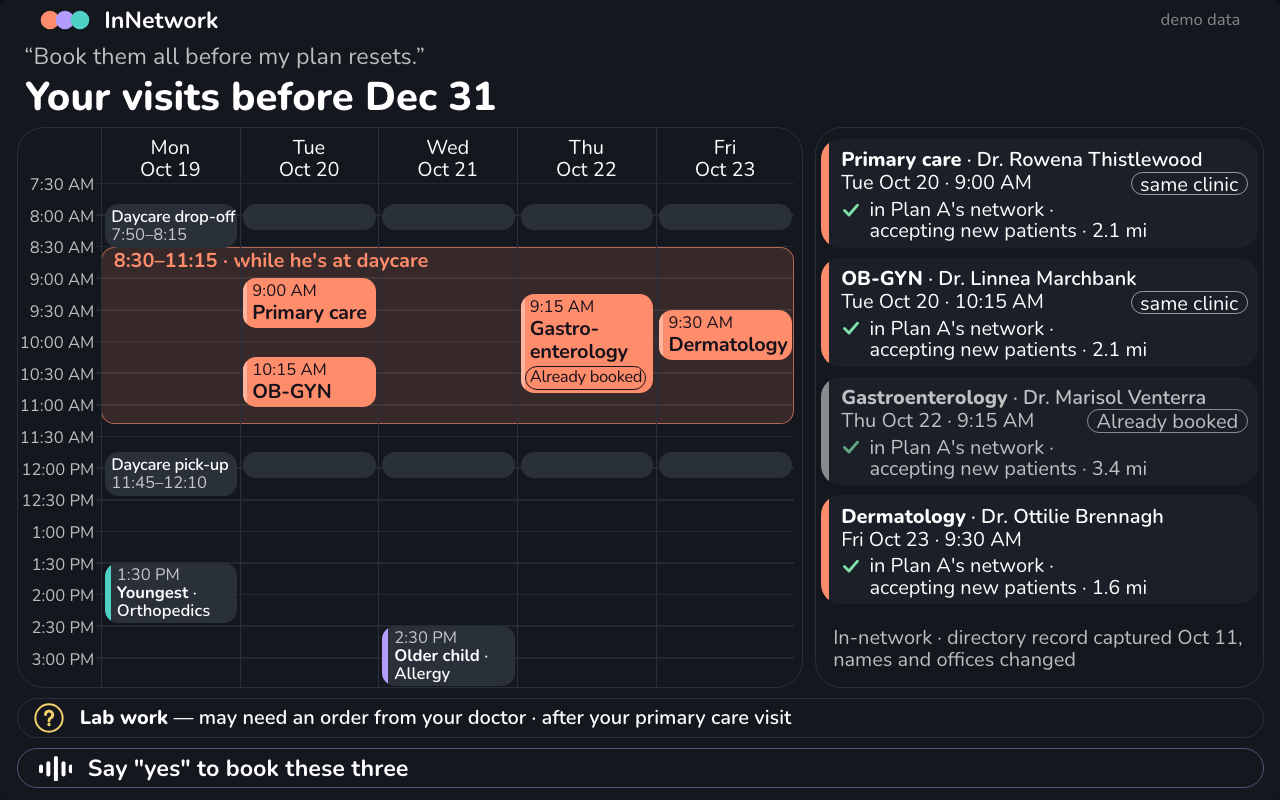
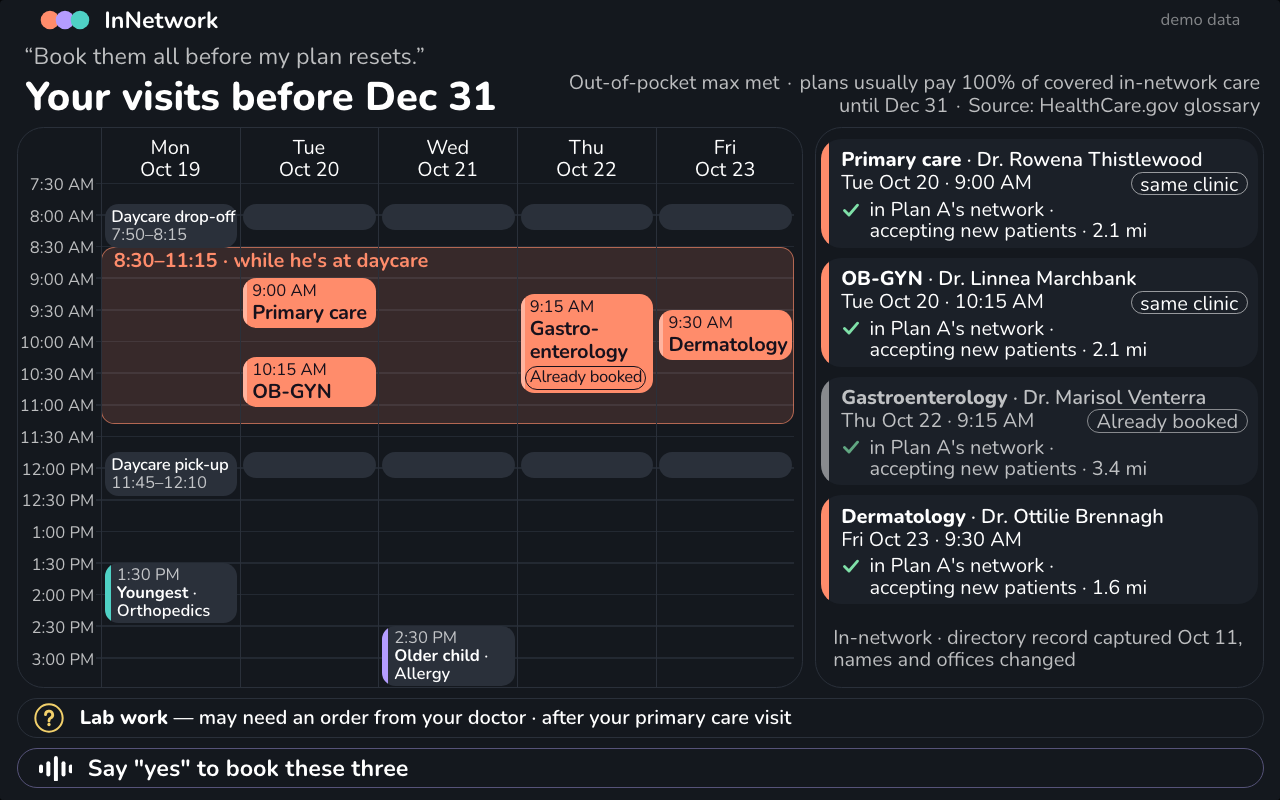
Scene 1 voice: the read-back is 24 words (longest Alexa reply 11.8 s, was 17.2 s plus an 8.4 s coverage line in the same turn); the out-of-pocket line moves to the visit-plan screen in the N9 wording, hours and the lab note stay on the screen; verify T8/T9/B8 follow; screens re-shot (68/68); frictio

Changed region(s): [[0.4375, 0.0938, 0.9688, 0.1562]]

diff --git a/verify/protocol.ts b/verify/protocol.ts
@@ -23,13 +23,13 @@ const MODES = new Set(["live", "file", "fixture", "sandbox", "simulated"]);
 export const SPEC_LINES = {
   openingReadBack: "One doctor each, in their own plan. Book all three?",
   openingBooked: "Booked.",
-  oop: "After the out-of-pocket max, plans usually pay 100% of covered in-network care until the plan year ends — per HealthCare.gov.",
-  plan: "Your gastroenterologist is already booked for Thursday. Tuesday, same clinic: primary care, then OB-GYN. Friday: dermatology. All between 8:30 and 11, while he's at daycare. Lab work may need an order — I'll add it after primary care. Book these three?",
+  oopNote: "Out-of-pocket max met · plans usually pay 100% of covered in-network care until Dec 31 · Source: HealthCare.gov glossary",
+  plan: "Your gastroenterologist is already booked for Thursday. Tuesday, same clinic: primary care, then OB-GYN. Friday: dermatology. All while he's at daycare. Book these three?",
   booked: "Booked. Details in your Alexa app and email. Say cancel anytime.",
   status: "Four booked. Lab work comes after Tuesday's visit.",
   setAside: "I checked six nearby. Two don't see children under three, one isn't in his plan. These two fit.",
 };
-export const VIDEO_ALEXA_LINES = [SPEC_LINES.openingReadBack, SPEC_LINES.openingBooked, SPEC_LINES.oop, SPEC_LINES.plan, SPEC_LINES.booked, SPEC_LINES.status, SPEC_LINES.setAside];
+export const VIDEO_ALEXA_LINES = [SPEC_LINES.openingReadBack, SPEC_LINES.openingBooked, SPEC_LINES.plan, SPEC_LINES.booked, SPEC_LINES.status, SPEC_LINES.setAside];
 export const TOOLS = ["book_visit", "cancel_visit", "check_doctor", "checkup_year", "consent", "doctor_notes", "family_plans", "family_routine", "find_in_network"];
 export const VIEW_OF: Record<string, string | null> = { consent: "consent", find_in_network: "family-match", book_visit: "booked", cancel_visit: "booked", checkup_year: "visit-plan", family_plans: null, family_routine: null, doctor_notes: null, check_doctor: null };
 /** Tool names, JSON and internal ids must never reach a customer card. */
@@ -171,8 +171,8 @@ export async function runProtocolChecks(opts: { mcpUrl: string; dataDir: string;
   add("T7", "opening booked (voice) + written confirmation queued (§15)", SPEC_LINES.openingBooked, `${ob.speech} | ${ob.steps.filter((s) => /Written confirmation/.test(s.service)).map((s) => s.summary).join("")}`, ob.speech === SPEC_LINES.openingBooked && ob.steps.some((s) => /Written confirmation/.test(s.service)));
 
   const plan = await call(cA, "checkup_year", CHECKUP);
-  add("T8", "scene 1: OOP line with 'usually' and HealthCare.gov (N9)", SPEC_LINES.oop, plan.parts[0] ?? "", plan.parts[0] === SPEC_LINES.oop);
-  add("T9", "scene 1: plan read back around the routine; lab work waits (N10, N12)", SPEC_LINES.plan, plan.parts[1] ?? "", plan.parts[1] === SPEC_LINES.plan);
+  add("T8", "scene 1: OOP line on the screen with 'usually' and HealthCare.gov (N9), not spoken", SPEC_LINES.oopNote, `${plan.sc.card?.note} | parts ${plan.parts.length}`, plan.sc.card?.note === SPEC_LINES.oopNote && plan.parts.length === 1);
+  add("T9", "scene 1: plan read back around the routine; lab work waits on the screen (N10, N12)", SPEC_LINES.plan, `${plan.parts[0] ?? ""} | ${plan.sc.card?.lab}`, plan.parts[0] === SPEC_LINES.plan && /^Lab work — may need an order/.test(String(plan.sc.card?.lab ?? "")));
   const docs = (plan.sc.card?.doctors ?? []).map((d: any) => `${d.specialty}|${d.name}|${d.when}|${d.tag ?? ""}`);
   add("T10", "visit plan screen: four doctors, same clinic, already booked", "PC Tue 9:00 · OB Tue 10:15 · GI Thu 9:15 (Already booked) · Derm Fri 9:30", docs.join(" ; "),
     docs.join(";") === ["Primary care|Dr. Rowena Thistlewood|Tue Oct 20 · 9:00 AM|same clinic", "OB-GYN|Dr. Linnea Marchbank|Tue Oct 20 · 10:15 AM|same clinic", "Gastroenterology|Dr. Marisol Venterra|Thu Oct 22 · 9:15 AM|Already booked", "Dermatology|Dr. Ottilie Brennagh|Fri Oct 23 · 9:30 AM|"].join(";"));

diff --git a/server/speech.ts b/server/speech.ts
@@ -2,7 +2,7 @@
 // the 20-second budget) before it leaves the server.
 import { assertSpeech, DISCLAIMER } from "../src/core/lint.ts";
 import { SPECIALTY_WORDS, itemVisit } from "../src/core/specialty.ts";
-import { clock12, toZoned, weekdayLong, minutesOfDay, timeAmPm } from "../src/core/time.ts";
+import { toZoned, weekdayLong, timeAmPm } from "../src/core/time.ts";
 import type { CheckupItem, Specialty } from "../src/core/types.ts";
 import type { Pronoun } from "../src/core/network-gate.ts";
 
@@ -46,19 +46,20 @@ export function searchSummary(args: { checked: number; ageSetAside: { count: num
   return assertSpeech(parts.join(" "));
 }
 
-export const OOP_LINE = assertSpeech("After the out-of-pocket max, plans usually pay 100% of covered in-network care until the plan year ends — per HealthCare.gov.");
+/** The out-of-pocket line is shown on the visit-plan screen, not spoken: it kept the scene-1 turn over 25 s. Same N9 wording as the checkup-year subtitle. */
+export const oopNote = (until: string) => `Out-of-pocket max met · plans usually pay 100% of covered in-network care until ${until} · Source: HealthCare.gov glossary`;
 
 export type PlanSpeechInput = {
   tz: string;
   bookedEarlier: { item: CheckupItem; start: number }[];
   proposals: { item: Specialty; start: number; end: number; officeId: string }[];
-  windowStartMin: number | null; // child-away gap start, when every proposal sits in it
+  allInWindow: boolean;          // every proposal sits in the child-away gap
   childPronoun: Pronoun | null;
   routineLabel: string | null;   // "daycare"
-  labWaits: boolean;
 };
 
-/** Scene 1 read-back: built from the plan, grouped by day, same clinic named. */
+/** Scene 1 read-back: built from the plan, grouped by day, same clinic named. Hours and the lab-work note are on the
+ *  screen (window band, lab row), so the voice keeps only days, the routine and the question (about 10 s). */
 export function checkupReadBack(p: PlanSpeechInput): string {
   const s: string[] = [];
   for (const b of p.bookedEarlier) {
@@ -75,12 +76,7 @@ export function checkupReadBack(p: PlanSpeechInput): string {
     const list = xs.map((x) => itemVisit(x.item));
     s.push(`${day}${same ? ", same clinic" : ""}: ${list.length > 1 ? `${list.slice(0, -1).join(", ")}, then ${list.at(-1)}` : list[0]}.`);
   }
-  if (p.proposals.length && p.windowStartMin !== null && p.childPronoun && p.routineLabel) {
-    const lastEnd = Math.max(...p.proposals.map((x) => minutesOfDay(toZoned(x.end, p.tz))));
-    const endHour = Math.ceil(lastEnd / 60) * 60;
-    s.push(`All between ${clock12(p.windowStartMin)} and ${clock12(endHour)}, while ${contraction(p.childPronoun)} at ${p.routineLabel}.`);
-  }
-  if (p.labWaits) s.push("Lab work may need an order — I'll add it after primary care.");
+  if (p.proposals.length && p.allInWindow && p.childPronoun && p.routineLabel) s.push(`All while ${contraction(p.childPronoun)} at ${p.routineLabel}.`);
   if (p.proposals.length) s.push(p.proposals.length === 1 ? "Book this one?" : p.proposals.length === 2 ? "Book these two?" : `Book these ${numberWord(p.proposals.length)}?`);
   else s.push("Nothing new to book right now.");
   return assertSpeech(s.join(" "));

diff --git a/verify/browser.ts b/verify/browser.ts
@@ -310,11 +310,13 @@ export async function runBrowserChecks(opts: { hostUrl: string; screensDir: stri
     add("B18", "conversation band per screen: framed request + reply (01, 02), open request + two short lines (05), quote of the request's last sentence (03), none (04, 06)", "7/7 as specified",
       bandMiss.length ? bandMiss.join(" | ") : `${EXPECT_BAND.length}/${EXPECT_BAND.length}`, bandMiss.length === 0);
     const planTurn = demoTurns.find((t) => t.tool === "checkup_year" && t.view === "visit-plan");
-    const p1 = subtitleLog.findIndex((x) => x.text === planTurn?.parts?.[0]);
-    const p2 = subtitleLog.findIndex((x) => x.text === planTurn?.parts?.[1]);
-    add("B8", "speech parts of scene 1 shown one after the other in the subtitle bar, each with its own seconds", "part 1 then part 2, seconds from structuredContent.seconds",
-      `parts=${planTurn?.parts?.length} order=${p1}<${p2} seconds="${subtitleLog[p1]?.seconds}","${subtitleLog[p2]?.seconds}" vs ${JSON.stringify(planTurn?.seconds)}`,
-      planTurn?.parts?.length === 2 && p1 >= 0 && p2 > p1 && subtitleLog[p1]?.seconds === `${Number(planTurn.seconds[0]).toFixed(1)} s` && subtitleLog[p2]?.seconds === `${Number(planTurn.seconds[1]).toFixed(1)} s`);
+    // Scene 1 is one part since 2026-10-17 (the out-of-pocket line moved to the screen); the check still walks every part.
+    const planParts: string[] = planTurn?.parts ?? [];
+    const idx = planParts.map((t) => subtitleLog.findIndex((x) => x.text === t));
+    const secOk = planParts.every((_, i) => idx[i] >= 0 && subtitleLog[idx[i]]?.seconds === `${Number(planTurn!.seconds[i]).toFixed(1)} s`);
+    add("B8", "speech parts of scene 1 shown one after the other in the subtitle bar, each with its own seconds", "every part in order, seconds from structuredContent.seconds",
+      `parts=${planParts.length} order=${idx.join("<")} seconds=${idx.map((j) => `"${subtitleLog[j]?.seconds}"`).join(",")} vs ${JSON.stringify(planTurn?.seconds)}`,
+      planParts.length >= 1 && idx.every((j, i) => j >= 0 && (i === 0 || j > idx[i - 1])) && secOk);
 
     add("B9", "MCP Apps lifecycle: every card view initialized before data; ui/resource-teardown before each view change", "initialized = renders; teardowns = renders - 1 (per household) or more",
       `renders=${hEnd.card.renders} initialized=${hEnd.card.initialized} teardowns=${hEnd.card.teardowns}`, hEnd.card.renders > 0 && hEnd.card.initialized === hEnd.card.renders && hEnd.card.teardowns >= hEnd.card.renders - 1);

diff --git a/server/tools.ts b/server/tools.ts
@@ -584,8 +584,7 @@ export function buildMcpServer({ era, services: sv, assetBase = "" }: BuildOptio
     const allInWindow = proposals.length > 0 && proposals.every((p) => { const m = minutesOfDay(toZoned(p.start, tz)); return win && m >= win.startMin && m + (p.end - p.start) / 60000 <= win.endMin; });
     const who = childPronounOfRoutine(u);
     const parts = [
-      ...(oop_met ? [S.OOP_LINE] : []),
-      S.checkupReadBack({ tz, bookedEarlier: earlierLines.map((l) => ({ item: l.item, start: l.visit.start })), proposals: proposals.map((p) => ({ item: p.item as Specialty, start: p.start, end: p.end, officeId: p.officeId })), windowStartMin: allInWindow ? win!.startMin : null, childPronoun: who?.pronoun ?? null, routineLabel: who?.word ?? null, labWaits }),
+      S.checkupReadBack({ tz, bookedEarlier: earlierLines.map((l) => ({ item: l.item, start: l.visit.start })), proposals: proposals.map((p) => ({ item: p.item as Specialty, start: p.start, end: p.end, officeId: p.officeId })), allInWindow, childPronoun: who?.pronoun ?? null, routineLabel: who?.word ?? null }),
     ];
     const others = activeVisits(u, now).filter((v) => v.memberId !== adult.memberId);
     const weekVisits = [
@@ -601,6 +600,7 @@ export function buildMcpServer({ era, services: sv, assetBase = "" }: BuildOptio
     ].sort((a, b) => a.start - b.start).map((x) => x.row);
     const card: C.VisitPlanCard = {
       view: "visit-plan", quote: null, title: `Your visits before ${shortDate(u.checkup?.planYearEnd ?? sv.scenario.planYearEnd)}`,
+      note: u.checkup?.oopMetToldAt ? S.oopNote(shortDate(u.checkup.planYearEnd)) : null,
       week: C.weekModel({ weekStart: C.mondayOf(firstStart, tz), tz, routine: u.routine, window: win, visits: weekVisits }),
       doctors: docRows,
       sourceLine: sourceLineOf([...lookups.values()].flatMap((l) => [...l.records.values()])),

diff --git a/server/server.test.ts b/server/server.test.ts
@@ -82,11 +82,11 @@ test("demo story: opening for three people -> book -> checkup plan -> book -> ne
   // Scene 1: checkup year
   const plan = await s.call("checkup_year", { action: "plan", items: ["primary_care", "ob_gyn", "dermatology", "gastroenterology", "lab_work"], oop_met: true });
   assert.deepEqual(plan.structuredContent.speechParts, [
-    "After the out-of-pocket max, plans usually pay 100% of covered in-network care until the plan year ends — per HealthCare.gov.",
-    "Your gastroenterologist is already booked for Thursday. Tuesday, same clinic: primary care, then OB-GYN. Friday: dermatology. All between 8:30 and 11, while he's at daycare. Lab work may need an order — I'll add it after primary care. Book these three?",
+    "Your gastroenterologist is already booked for Thursday. Tuesday, same clinic: primary care, then OB-GYN. Friday: dermatology. All while he's at daycare. Book these three?",
   ]);
   const card = plan.structuredContent.card;
   assert.equal(card.title, "Your visits before Dec 31");
+  assert.equal(card.note, "Out-of-pocket max met · plans usually pay 100% of covered in-network care until Dec 31 · Source: HealthCare.gov glossary", "the out-of-pocket line moved from the voice to the screen (N9 wording kept)");
   assert.deepEqual(card.doctors.map((d: any) => [d.specialty, d.name, d.when, d.tag]), [
     ["Primary care", "Dr. Rowena Thistlewood", "Tue Oct 20 · 9:00 AM", "same clinic"],
     ["OB-GYN", "Dr. Linnea Marchbank", "Tue Oct 20 · 10:15 AM", "same clinic"],

diff --git a/views/screens.css b/views/screens.css
@@ -212,6 +212,8 @@ body {
   display: flex; flex-direction: column;
 }
 .s-vp .title { flex: none; margin: 1.5px 0 0 15px; height: 28px; font-size: var(--display5); font-weight: 800; line-height: 28px; color: var(--text-1); white-space: nowrap; }
+.s-vp .title-row { flex: none; display: flex; align-items: flex-start; justify-content: space-between; gap: 12px; }
+.s-vp .note { margin: 0 12px 0 0; max-width: 440px; font-size: var(--body3); line-height: 14px; color: var(--text-2); text-align: right; }
 .s-vp .main { flex: none; margin: 3.9px 10px 0; height: 337px; display: grid; grid-template-columns: 472px 269px; column-gap: 7px; }
 .s-vp .cal { position: relative; background: var(--card); border: 1px solid var(--hairline); border-radius: var(--r-card); }
 .s-vp .cal-cols { position: absolute; left: var(--axis); top: 0; bottom: 0; display: grid; grid-template-columns: repeat(5, var(--col)); }

diff --git a/src/core/core.test.ts b/src/core/core.test.ts
@@ -153,7 +153,7 @@ test("N1-symptom-refusal: a symptom without a specialty gets the fixed answer; a
 });
 
 test("voice budget: one reply at most 20 seconds", () => {
-  assert.ok(seconds("Your gastroenterologist is already booked for Thursday. Tuesday, same clinic: primary care, then OB-GYN. Friday: dermatology. All between 8:30 and 11, while he's at daycare. Lab work may need an order — I'll add it after primary care. Book these three?") <= 20);
+  assert.ok(seconds("Your gastroenterologist is already booked for Thursday. Tuesday, same clinic: primary care, then OB-GYN. Friday: dermatology. All while he's at daycare. Book these three?") <= 12);
   assert.equal(lintSpeech("word ".repeat(51))[0].rule, "budget");
 });
 

diff --git a/views/screens.ts b/views/screens.ts
@@ -285,7 +285,7 @@ function visitPlan(c: VisitPlanCard): Node[] {
   }
   if (c.sourceLine) docs.append(el("p", "src", c.sourceLine));
 
-  const out: Node[] = [el("h1", "title", c.title), el("main", "main", cal, docs)];
+  const out: Node[] = [c.note ? el("div", "title-row", el("h1", "title", c.title), el("p", "note", ...dotted(c.note, true))) : el("h1", "title", c.title), el("main", "main", cal, docs)];
   if (c.lab) {
     const [a, b] = splitOnce(c.lab, " — ");
     const lab = el("div", "lab", ICON.vpLab(), el("p", null, el("b", null, a), b ? ` — ${b}` : null));

diff --git a/server/cards.ts b/server/cards.ts
@@ -80,6 +80,7 @@ export type SetAsideCard = {
 // ---------- 03 visit plan ----------
 export type VisitPlanCard = {
   view: "visit-plan"; quote: string | null; title: string; week: WeekModel;
+  note: string | null; // out-of-pocket line (N9 wording), shown next to the title instead of spoken
   doctors: { specialty: string; name: string; when: string; detail: string; tag: string | null; quiet: boolean }[];
   sourceLine: string | null;
   lab: string | null;

diff --git a/docs/FRICTION-LOG.md b/docs/FRICTION-LOG.md
@@ -1,8 +1,89 @@
 # Friction log — InNetwork (Alexa+ track)
 
-Part 1 (F1–F15): public provider directories, NPPES, CMS files — measured with `npm run audit:directories`. Part 2 (A1–A6): the Alexa+ platform, MCP Apps and the add-on design guide. Every entry has the six fields (task · steps · expected vs actual · severity · workaround · suggestion).
+Part 1 (A1–A6): the Alexa+ platform, MCP Apps and the add-on design guide. Part 2 (F1–F15): public provider directories, NPPES and CMS files — measured with `npm run audit:directories`. Every entry has the six fields the hackathon asks for: task · steps · expected vs actual · severity · workaround · suggestion. Feature requests that follow from these entries are in `docs/FEATURE-REQUESTS.md`.
 
-## Part 1 — directories, NPPES, CMS files
+## At a glance
+
+| # | Entry | Severity |
+|---|---|---|
+| A1 | No way to run the add-on on Alexa+ outside the partner preview | High |
+| A2 | `hostContext.theme` has no documented values; no host color or type tokens | Medium |
+| A3 | The guide does not say who draws List / Card / Carousel | Medium |
+| A4 | No health-care path in Alexa+ booking | Medium |
+| A5 | Policy for a parent-directed health navigator is unclear | Medium |
+| A6 | Design-guide minimum text sizes vs dense layouts | Low |
+| F1 | Florida Blue: no CapabilityStatement; supported search parameters only visible through an error message | Medium |
+| F2 | Florida Blue: an unknown search parameter answers HTTP 200 + OperationOutcome | Medium |
+| F3 | Florida Blue: InsurancePlan.network points to a network no practitioner role references (5 of 14 plans) | High |
+| F4 | Florida Blue: specialty is free text with a NullFlavor code; sub-specialties are invisible | High |
+| F5 | Florida Blue: every role says "accepting new patients"; no hours, no geo, no practice name | Medium |
+| F6 | Molina: comma-separated ids return 0; one location per request; bursts get HTTP 403 | Medium |
+| F6b | Molina: an undocumented daily call-volume quota stops every request until 00:00 UTC | High (live use) |
+| F7 | Molina: Florida Medicaid MMA plan has an empty `network`; roles carry the program as network | Medium |
+| F8 | Molina: shapes that break a strict Plan-Net reader | Low–medium |
+| F9 | Marketplace (QHP) plans: no API; one provider file is up to 1.5 GB | Medium |
+| F10 | NPPES: a ZIP search also matches mailing addresses | Medium (organizations), low (individuals) |
+| F11 | Directories and indexes that need registration or refuse anonymous reads | Medium |
+| F12 | No public directory record states a patient age (Plan-Net has no field for it) | High (families with young children) |
+| F13 | Directory records that cannot answer the basic questions on their own | Medium |
+| F14 | In-network listings at Orlando addresses for practitioners who report practicing elsewhere | Medium–high |
+| F15 | Practice websites that refuse automated reads (the second measurement is thin) | Low for the build, medium for families |
+
+Not in this log: the classic Alexa skill (`skill/`) is built and tested against the server, but we have not yet run it on a device, so there is no on-device entry; we only log what we actually tried.
+
+## Part 1 — Alexa+ platform, MCP Apps, design guide
+
+### A1. No way to run the add-on on Alexa+ outside the partner preview
+- **Task:** show the MCP add-on working inside Alexa+.
+- **Steps:** read the add-on docs and the hackathon forum; looked for a public toolkit or web simulator.
+- **Expected vs actual:** expected a sandbox or simulator for builders; actual: "the Alexa+ Add-on toolkit and web simulator are in preview with select partners" (forum 45397).
+- **Severity:** High (for any Alexa+ track entry).
+- **Workaround:** our own host: official MCP client + MCP Apps bridge + a sandbox proxy on a second origin + a 1280×800 device frame (`host/`); a classic skill for one scene on a real Echo Show (`skill/`).
+- **Suggestion:** publish the add-on simulator (even read-only, without commerce) so demos are comparable and closer to the device.
+
+### A2. `hostContext.theme` has no documented values; no host color or type tokens
+- **Task:** support light and dark mode natively, as the design guide asks.
+- **Steps:** read Visual Foundations and Layout and Rendering (Jul 21, 2026) and the MCP Apps host context list.
+- **Expected vs actual:** expected the value set of `theme` (and ideally host tokens); actual: `theme` is listed without values, no tokens are passed.
+- **Severity:** Medium.
+- **Workaround:** accept `"dark" | "light"`, treat anything else as dark; all colors as CSS variables switched by `data-theme`; the simulator sends `host-context-changed` to test both.
+- **Suggestion:** document `theme` values and pass a minimal token set (surface, text, accent) in host context.
+
+### A3. The guide does not say who draws List / Card / Carousel
+- **Task:** decide whether our MCP App renders the list and card patterns or returns data for the host to render.
+- **Steps:** Components and Patterns (Aug 03, 2026), Display modes, Layout and Rendering.
+- **Expected vs actual:** expected a statement like "the host renders patterns from data X; apps render their own HTML otherwise"; actual: four patterns are named ("Don't invent alternatives") but the ownership is not stated.
+- **Severity:** Medium.
+- **Workaround:** our screens draw the patterns themselves in HTML that follows the guide's sizes; the host draws only the conversation strip and the add-on's logo bar.
+- **Suggestion:** one paragraph and a minimal example of a data-only result rendered by the host.
+
+### A4. No health-care path in Alexa+ booking
+- **Task:** book a doctor's visit the "Alexa+ way".
+- **Steps:** Local Booking SPI (Jul 21, 2026), integration-approach page (Jul 10, 2026).
+- **Expected vs actual:** expected clinics or practitioners among supported businesses; actual: "salons, spas, fitness centers, and other appointment-based services", health/medical/doctor/clinic/insurance 0 mentions; no plan or patient-age fields in the booking contract.
+- **Severity:** Medium.
+- **Workaround:** a sandbox booking partner behind our own tools; read-back, voice + written confirmation and cancel anytime per policy §15.
+- **Suggestion:** a clinic profile in the SPI with plan network and patient age group (feature request FR1).
+
+### A5. Policy for a parent-directed health navigator is unclear
+- **Task:** design what the add-on may hear and keep about a child.
+- **Steps:** policy requirements (Jul 21, 2026) §3, §4, §13.
+- **Expected vs actual:** expected guidance for an adult managing a child's appointments; actual: §4 "must never target children or collect their data" and §13 health rules do not address this case.
+- **Severity:** Medium (blocks certification, not the demo).
+- **Workaround:** the parent is the user; a child is a relative label and a plan label; the age band is a per-search parameter, never stored (verify G1, mutation M-N4).
+- **Suggestion:** a short clarification with an allowed pattern (feature request FR3).
+
+### A6. Design-guide minimum text sizes vs dense layouts
+- **Task:** build week calendars at the guide's minimum sizes (Body3 12, Label1 10 at the 768×480 base).
+- **Steps:** HTML from the picked mockups, 3–4 rounds of side-by-side checks per screen.
+- **Expected vs actual:** expected the mockups' labels to fit; actual: "11:45–12:10" at 12 px is as wide as a calendar cell; "Gastroenterology" does not fit an 83 px column even at 10 px.
+- **Severity:** Low.
+- **Workaround:** labels only on the first day column, two-line tiles, Label1 for axis labels.
+- **Suggestion:** a calendar/week example in Components and Patterns with recommended minimum cell sizes.
+
+---
+
+## Part 2 — public provider directories, NPPES, CMS files
 
 Each entry: task · steps · expected vs actual · severity · workaround · suggestion, with the command and the number
 measured. Times are UTC from the machine clock. All requests were anonymous GETs to public endpoints (no keys, no
@@ -154,55 +235,3 @@ re-counted by `npm run audit:directories`.
 - **Severity:** low for us (measurement), medium for families (the age is not written anywhere a family can find it in advance; you learn it on the phone).
 - **Workaround:** none taken (no bot-checkpoint bypass by design); result published with its counts.
 - **Suggestion:** structured age data in the directory (F12) instead of scraping practice pages.
-
----
-
-## Part 2 — Alexa+ platform, MCP Apps, design guide
-
-### A1. No way to run the add-on on Alexa+ outside the partner preview
-- **Task:** show the MCP add-on working inside Alexa+.
-- **Steps:** read the add-on docs and the hackathon forum; looked for a public toolkit or web simulator.
-- **Expected vs actual:** expected a sandbox or simulator for builders; actual: "the Alexa+ Add-on toolkit and web simulator are in preview with select partners" (forum 45397).
-- **Severity:** High (for any Alexa+ track entry).
-- **Workaround:** our own host: official MCP client + MCP Apps bridge + a sandbox proxy on a second origin + a 1280×800 device frame (`host/`); a classic skill for one scene on a real Echo Show (`skill/`).
-- **Suggestion:** publish the add-on simulator (even read-only, without commerce) so demos are comparable and closer to the device.
-
-### A2. `hostContext.theme` has no documented values; no host color or type tokens
-- **Task:** support light and dark mode natively, as the design guide asks.
-- **Steps:** read Visual Foundations and Layout and Rendering (Jul 21, 2026) and the MCP Apps host context list.
-- **Expected vs actual:** expected the value set of `theme` (and ideally host tokens); actual: `theme` is listed without values, no tokens are passed.
-- **Severity:** Medium.
-- **Workaround:** accept `"dark" | "light"`, treat anything else as dark; all colors as CSS variables switched by `data-theme`; the simulator sends `host-context-changed` to test both.
-- **Suggestion:** document `theme` values and pass a minimal token set (surface, text, accent) in host context.
-
-### A3. The guide does not say who draws List / Card / Carousel
-- **Task:** decide whether our MCP App renders the list and card patterns or returns data for the host to render.
-- **Steps:** Components and Patterns (Aug 03, 2026), Display modes, Layout and Rendering.
-- **Expected vs actual:** expected a statement like "the host renders patterns from data X; apps render their own HTML otherwise"; actual: four patterns are named ("Don't invent alternatives") but the ownership is not stated.
-- **Severity:** Medium.
-- **Workaround:** our screens draw the patterns themselves in HTML that follows the guide's sizes; the host draws only the conversation strip and the add-on's logo bar.
-- **Suggestion:** one paragraph and a minimal example of a data-only result rendered by the host.
-
-### A4. No health-care path in Alexa+ booking
-- **Task:** book a doctor's visit the "Alexa+ way".
-- **Steps:** Local Booking SPI (Jul 21, 2026), integration-approach page (Jul 10, 2026).
-- **Expected vs actual:** expected clinics or practitioners among supported businesses; actual: "salons, spas, fitness centers, and other appointment-based services", health/medical/doctor/clinic/insurance 0 mentions; no plan or patient-age fields in the booking contract.
-- **Severity:** Medium.
-- **Workaround:** a sandbox booking partner behind our own tools; read-back, voice + written confirmation and cancel anytime per policy §15.
-- **Suggestion:** a clinic profile in the SPI with plan network and patient age group (feature request FR1).
-
-### A5. Policy for a parent-directed health navigator is unclear
-- **Task:** design what the add-on may hear and keep about a child.
-- **Steps:** policy requirements (Jul 21, 2026) §3, §4, §13.
-- **Expected vs actual:** expected guidance for an adult managing a child's appointments; actual: §4 "must never target children or collect their data" and §13 health rules do not address this case.
-- **Severity:** Medium (blocks certification, not the demo).
-- **Workaround:** the parent is the user; a child is a relative label and a plan label; the age band is a per-search parameter, never stored (verify G1, mutation M-N4).
-- **Suggestion:** a short clarification with an allowed pattern (feature request FR3).
-
-### A6. Design-guide minimum text sizes vs dense layouts
-- **Task:** build week calendars at the guide's minimum sizes (Body3 12, Label1 10 at the 768×480 base).
-- **Steps:** HTML from the picked mockups, 3–4 rounds of side-by-side checks per screen.
-- **Expected vs actual:** expected the mockups' labels to fit; actual: "11:45–12:10" at 12 px is as wide as a calendar cell; "Gastroenterology" does not fit an 83 px column even at 10 px.
-- **Severity:** Low.
-- **Workaround:** labels only on the first day column, two-line tiles, Label1 for axis labels.
-- **Suggestion:** a calendar/week example in Components and Patterns with recommended minimum cell sizes.

diff --git a/docs/EVIDENCE.md b/docs/EVIDENCE.md
@@ -12,7 +12,7 @@ Rule: a claim goes into the submission only if it has a row here with a command 
 | E6 | The network gate is fixed rules, no model; same input → byte-identical decision | `src/core/network-gate.ts`; test "gate is deterministic"; no LLM dependency in `package.json` | PASS | 2026-10-11, unit tests |
 | E7 | Every refusal (N1–N13) is enforced in code and guarded by a test that turns red when the refusal is removed | `npm run mutations` → 16/16 mutations killed; control on the unmutated copy green | 16/16 | 2026-10-11, mutation run |
 | E8 | Alexa's lines in the video are exactly what the server says | verify T3, T8, T9, T11, S2, T13 (word for word) on the recorded directory samples | PASS | 2026-10-11, full verify 68/68: fresh clone 05:41Z; on main again after the video fixes (`f589820`) |
-| E9 | Voice budget: 107 words of Alexa in the whole video, no reply over 20 s | verify G3; `src/core/lint.ts` `words()` | 107 words ≈ 42.8 s, longest 16.0 s (consent and evidence shots carry no voice, so these are all of Alexa's words in the video) | 2026-10-11, verify run |
+| E9 | Voice budget: 72 words of Alexa in the whole video, no reply over 20 s | verify G3; `src/core/lint.ts` `words()` | 72 words ≈ 28.8 s, longest 9.6 s (consent and evidence shots carry no voice, so these are all of Alexa's words in the video). Was 107 words, longest 16.0 s on 2026-10-11; on 2026-10-17 the out-of-pocket line moved to the visit-plan screen and the scene-1 read-back dropped the hours and the lab note, both already on that screen (verify T8, T9) | 2026-10-17, verify run |
 | E10 | "plans usually pay 100% … — per HealthCare.gov" is attributed, never "free" (N9) | verify G2 (every line of a run passes the linter), test N9; the two source pages opened in a browser: healthcare.gov/glossary/out-of-pocket-maximum-limit/ ("After you spend this amount on deductibles, copayments, and coinsurance for in-network care and services, your health plan pays 100% of the costs of covered benefits"; excludes premiums, uncovered services, out-of-network care, costs above the allowed amount) and healthcare.gov/sbc-glossary/ "Out-of-pocket Limit" ("After you meet this limit the plan will usually pay 100% of the allowed amount"); both quoted verbatim in `docs/SOURCES-2026-10-11.md` | PASS (linter); both pages HTTP 200 and the wording matches ("usually", "in-network", "covered") | 2026-10-11T08:05:06Z, headless Chromium read + screenshot (build lane) |
 | E11 | Household files hold no ages, names, dates of birth or program types | verify G1; test "demo story" (checks the household file while the proposal waits for a yes, `server/server.test.ts`); test "N4 mutation guard"; mutation M-N4 | PASS | 2026-10-11 |
 | E12 | A family's note about a doctor is private, never a rating, never reorders results, never reaches the shared office-policy file | tests N13-notes-private, "office policy keeps only its six fields"; mutations M-N13, M-N13b | PASS | 2026-10-11 |
@@ -25,7 +25,7 @@ Rule: a claim goes into the submission only if it has a row here with a command 
 | E18 | Customer screens show no tool names, internal ids, JSON, source badges or stars | verify G4, B14 | PASS (0 in 787 card strings; 0 hits in 15 screens) | 2026-10-11 |
 | E19 | Screens are built from the images the author picked, with the Alexa+ design-guide rules applied (768×480 base, zoom 1.667, light and dark) | `design/screens/0N/` (reference HTML, notes, compare shots); verify B16: each live screen vs the render of its reference HTML — screens 01–06 edgeF1 0.963–1.000 dark, 0.970–1.000 light; screen 07 (behind the scenes, live data lines and the audit footer added after the reference) 0.911 dark, 0.928 light; B12: dom_check 0 wrapped / 0 clipped / 0 overlaps on 15 documents | PASS (threshold 0.85) | 2026-10-11, full verify 68/68 (`f589820`) |
 | E20 | Runs offline in two commands; every check passes on a fresh clone | `git clone` → `npm ci` → `npm run verify` (offline, recorded samples); report `docs/verify-clean-clone-2026-10-11.txt` | 68/68 PASS in 44 s (2026-10-11); repeated 2026-10-16: 68/68 PASS in 45 s, 51 unit tests (50 pass, 1 skipped = E24), 12 package tests, 16/16 mutations killed, 0 personal-data hits in 145 tracked files | 2026-10-11 05:4xZ, fresh clone of 74f2fab (build lane); 2026-10-16 03:36Z, fresh clone of fdfdd25, report `docs/verify-clean-clone-2026-10-16.txt`; repeat before submission |
-| E21 | The synthetic Alexa lines fit the voice budget when actually spoken | `npm run tts` (macOS `say`) → `docs/video/tts/durations.txt` (the measured durations are in git; the audio stays local) | 107 words, 43.5 s, longest 17.2 s (≤ 20 s) | 2026-10-11, TTS run (Samantha, 175 wpm) |
+| E21 | The synthetic Alexa lines fit the voice budget when actually spoken | `npm run tts` (macOS `say`) → `docs/video/tts/durations.txt` (the measured durations are in git; the audio stays local) | 72 words, 29.7 s, longest 11.8 s (≤ 20 s); 2026-10-11 it was 107 words, 43.5 s, longest 17.2 s, plus an 8.4 s out-of-pocket line in the same turn | 2026-10-17, TTS run (Samantha, 175 wpm) |
 | E22 | A classic Alexa skill shows the adult's checkup year on a real Echo Show, as an MCP client of the same server; unsigned requests are rejected | `npm run skill:test` (5 tests: APL card, voice only, consent, deadline, unsigned/forged request → 400); verify C3 | PASS (⏳ not yet on the device) | 2026-10-11 |
 | E23 | The simulator works end to end in a headless browser | verify B1–B19 (official MCP client, sandbox on a second origin with CSP, tap → turn, N1/N7 host refusals, teardown order, theme switch, no console errors) | 19/19 | 2026-10-11 05:3xZ |
 | E24 | The offline run is 51 unit tests: 50 pass, 1 is skipped by design — the live Florida Blue test ("LIVE: Florida Blue answers for Plan A (dermatology, ZIP 32803) with a non-zero in-network count", `src/directory/directory.test.ts`). It only runs with `LIVE=1`, so the offline gate never calls the insurer | offline (what verify C1 runs): `npm test` → `tests 51 · pass 50 · fail 0 · skipped 1` (`logs/unit-tests.log` is written by `npm run verify` and is not committed; in the 2026-10-11 run the lines are :48 the skipped test, :52 tests 51, :54 pass 50, :57 skipped 1). Live (anonymous GETs to Florida Blue's public directory, internet needed; not run in this prep, directory quotas): `LIVE=1 node --test --test-timeout=60000 --test-name-pattern="LIVE: Florida Blue" src/directory/directory.test.ts` — the test must report pass, not skipped | offline: 50 pass, 1 skipped, 0 fail. The live test is not part of the 68/68; the live probe itself was shown working in E14 (Plan A LIVE OK, 2026-10-11 08:22Z) | 2026-10-16 03:36Z, fresh clone of fdfdd25 (`docs/verify-clean-clone-2026-10-16.txt`; the log lines quoted are the same in that run: :48, :52, :54, :57) |

diff --git a/README.md b/README.md
@@ -11,7 +11,7 @@ An Alexa+ add-on: a self-hosted **MCP server (spec 2025-11-25, Streamable HTTP; 
 | Criterion (verbatim) | What we built | Status | Where in the repo | Video |
 |---|---|---|---|---|
 | **Tech Implementation** — "How well is the project built, and how effectively does it use the required tech?" | MCP 2025-11-25 + 2026-07-28 on one endpoint through the SDK's own era routing; 9 tools, 6 MCP Apps views; deterministic network gate (no model) with 13 refusals, each guarded by a test and a mutation check (16/16 killed); live FHIR Plan-Net query for the network step; state across sessions and restarts; independent Inspector CLI check on both eras | Built | `server/`, `src/core/`, `src/directory/`, `verify/`, `docs/inspector-2026-10-11/` | 0:00, 1:53 |
-| **Design** — "complete, coherent product experience … interaction model intuitive … for the target device" | Voice first, screen second: one sentence → one screen for three people; read-back before booking, voice + written confirmation, cancel anytime (§15); short replies (107 words of Alexa in the whole video); screens follow the Alexa+ add-on design guide (768×480 base ×1.667, light and dark, type scale, one bright action) and were picked by the author from image-first mockups | Built | `views/`, `host/`, `design/screens/` | 0:00–1:53 |
+| **Design** — "complete, coherent product experience … interaction model intuitive … for the target device" | Voice first, screen second: one sentence → one screen for three people; read-back before booking, voice + written confirmation, cancel anytime (§15); short replies (72 words of Alexa in the whole video, the longest about 12 s when spoken; hours, sources and the coverage line stay on the screen); screens follow the Alexa+ add-on design guide (768×480 base ×1.667, light and dark, type scale, one bright action) and were picked by the author from image-first mockups | Built | `views/`, `host/`, `design/screens/` | 0:00–1:53 |
 | **Potential Impact** — "credible, specific case for solving customer needs … audience beyond the hackathon" | A real family's problem (three plans, a referral that failed on age, an hour per call); a reproducible audit: **0 of 10,075 public directory records state what age a doctor sees** (`npm run audit:directories`: all six public insurer directories answered — Florida Blue, Molina, UnitedHealthcare/Optum, Cigna, Humana, Centene — 3 Orlando ZIPs; run of 2026-10-13, `docs/AUDIT-2026-10-13.md`); any family whose members are on different plans | Built | `packages/plannet-directory-check/`, `docs/AUDIT-*.md` | 0:18 |
 | **Quality of the Idea** — "creative, imaginative use of the required tools … understanding of the developer ecosystem and the end-user needs" | Agentic workflow across services (directory → booking → calendar → Alexa app + email), context that persists (checkup year, family routine, the parent's own notes), MCP Apps; why native Alexa+ doesn't do this today (see below) | Built | `server/tools.ts` | 0:18, 0:35 |
 
@@ -19,7 +19,7 @@ An Alexa+ add-on: a self-hosted **MCP server (spec 2025-11-25, Streamable HTTP; 
 |---|---|---|
 | Alexa+: self-hosted MCP server (2025-11-25+, Streamable HTTP), called in code | Built | `server/server.ts`, `server/tools.ts` |
 | Simulated Alexa+ experience: simulation source in the repo, demo shows it working | Built | `host/`, `scripts/demo.ts` |
-| Demo video < 3 min, English, no third-party marks or music | ⏳ rough cut; author's voice Fri 16.10 | `docs/video/` (video renders not in git; subtitles, beats, the run's `/devinfo` snapshot and TTS durations are) |
+| Demo video < 3 min, English, no third-party marks or music | ⏳ new cut in progress (author's voice, licensed music, AI-generated family scenes labelled as such) | `docs/video/` (video renders not in git; subtitles, beats, the run's `/devinfo` snapshot and TTS durations are) |
 | Product feedback (5 questions) | Draft | `docs/PRODUCT-FEEDBACK.md` |
 | Friction log (optional, up to +10%) | Draft | `docs/FRICTION-LOG.md` |
 | Feature requests (optional) | Draft | `docs/FEATURE-REQUESTS.md` |
